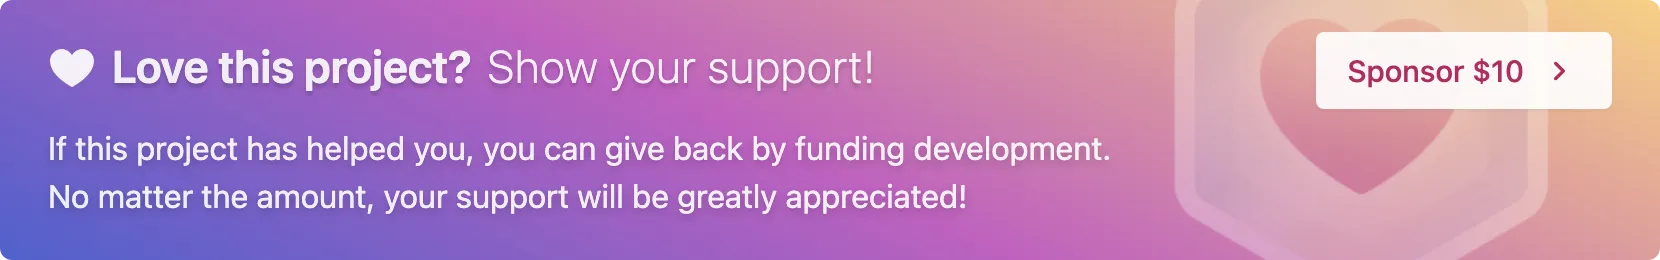
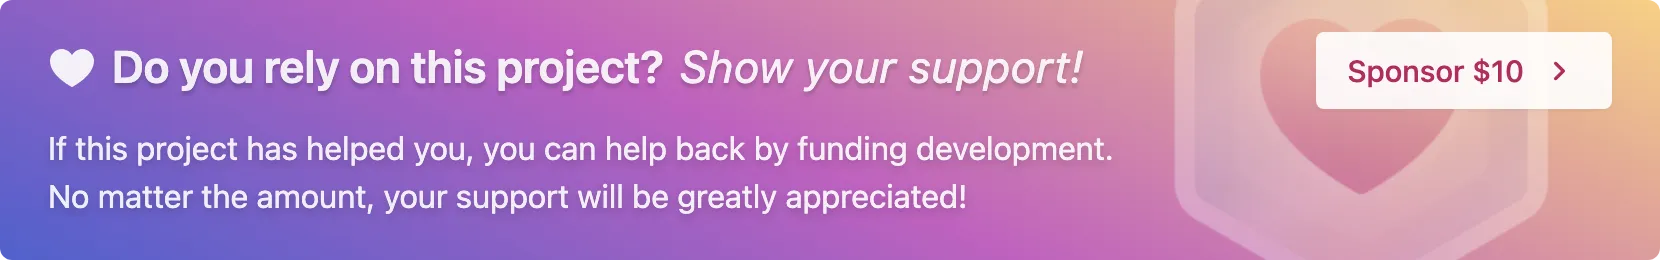
improved wording

Changed region(s): [[0.0614, 0.1846, 0.6759, 0.3692], [0.3687, 0.5231, 0.6759, 0.6462]]

diff --git a/banners/src/PlaceholderBanner.vue b/banners/src/PlaceholderBanner.vue
@@ -21,11 +21,11 @@
 				class="heading flex items-center"
 			>
 				<IconOcticonHeartFill24 class="heart-icon mt-0.5" />
-				Love this project? <span class="font-extralight tracking-wide">Show your support!</span>
+				Do you rely on this project? <span class="font-normal italic tracking-wide">Show your support!</span>
 			</div>
 
 			<p class="max-w-[70%]">
-				If this project has helped you, you can give back by funding development.
+				If this project has helped you, you can help back by funding development.
 				No matter the amount, your support will be greatly appreciated!
 			</p>
 		</div>
